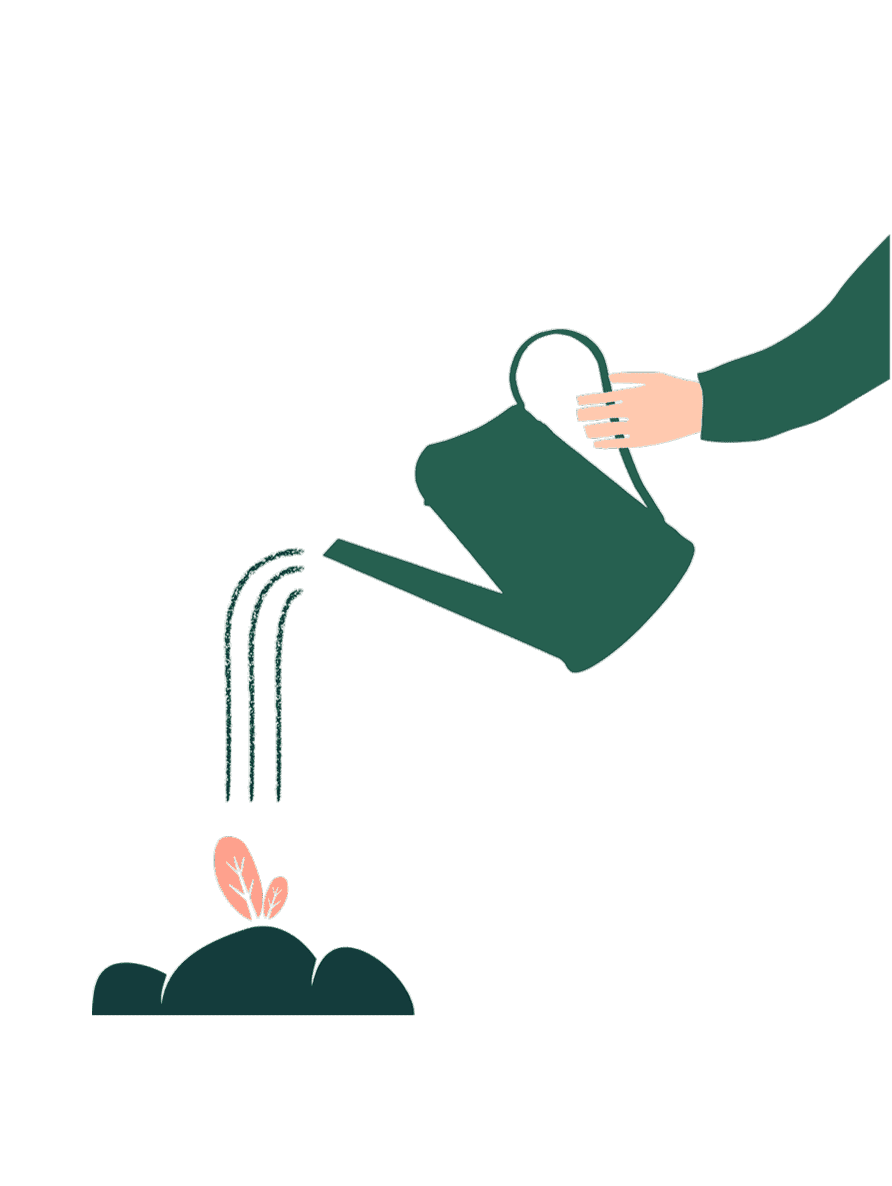
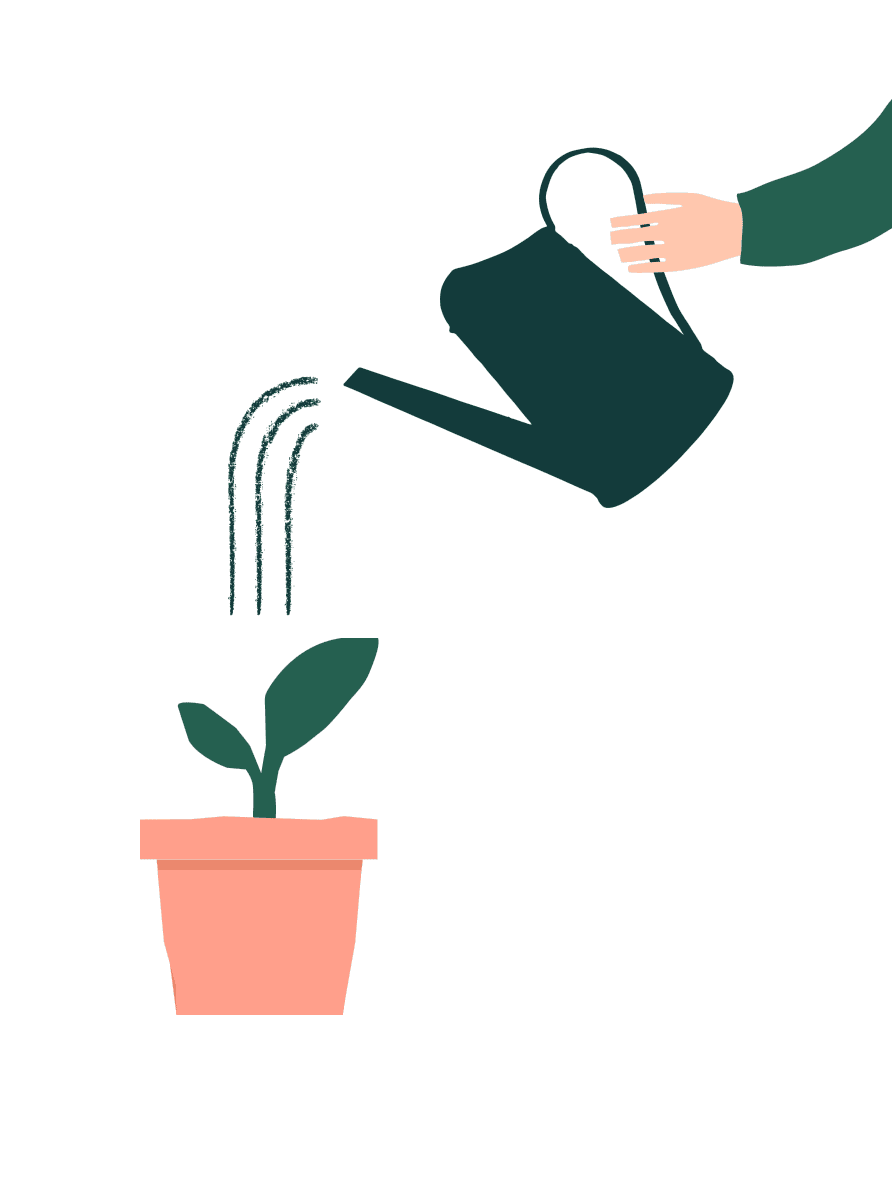
Teaser: Update background images and styling

Changed region(s): [[0.3632, 0.0624, 1.0, 0.5927], [0.0908, 0.312, 0.4843, 0.8735]]

diff --git a/src/components/Teaser/styles.scss b/src/components/Teaser/styles.scss
@@ -5,13 +5,14 @@
 .et--teaser {
   position: relative;
   display: block;
-  padding-bottom: 55%;
+  padding-bottom: 60%;
   margin: 1.5rem 0 0 0;
   text-decoration: none;
   background-color: $grey-light;
   background-repeat: no-repeat;
-  background-size: 42% auto;
-  background-position: 100% 70%;
+  background-size: 40% auto;
+  background-position: 100% 60%;
+  color: $green;
 
   @media (min-width: breakpoint('sm')) {
     background-size: 100% auto;

diff --git a/src/styles/_variables.scss b/src/styles/_variables.scss
@@ -3,7 +3,7 @@ $green: #266050;
 $green-dark: #0f3c3d;
 $green-light: #548f7e;
 $piggy-light: #ffc8ad;
-$grey-light: #e5e9dc;
+$grey-light: #eaf1ef;
 $white: #ffffff;
 
 $grid-max-width: 1400px;
